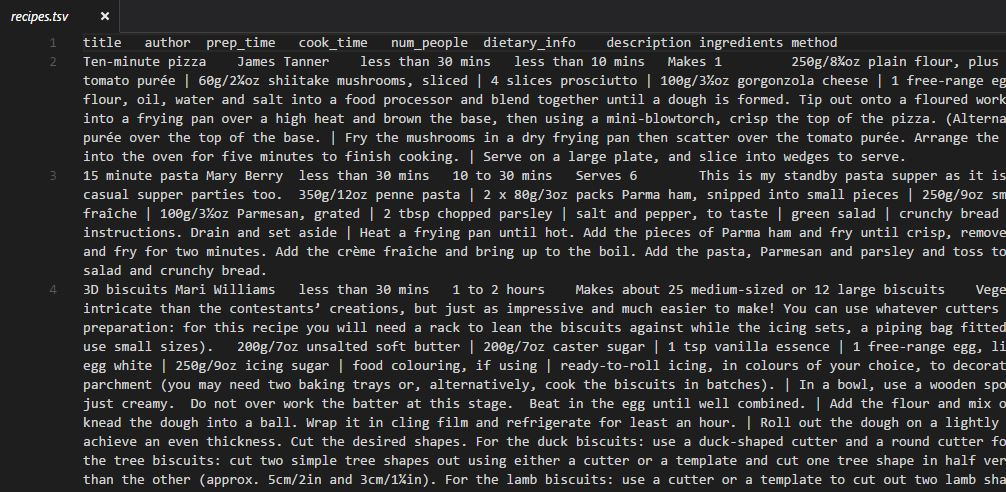
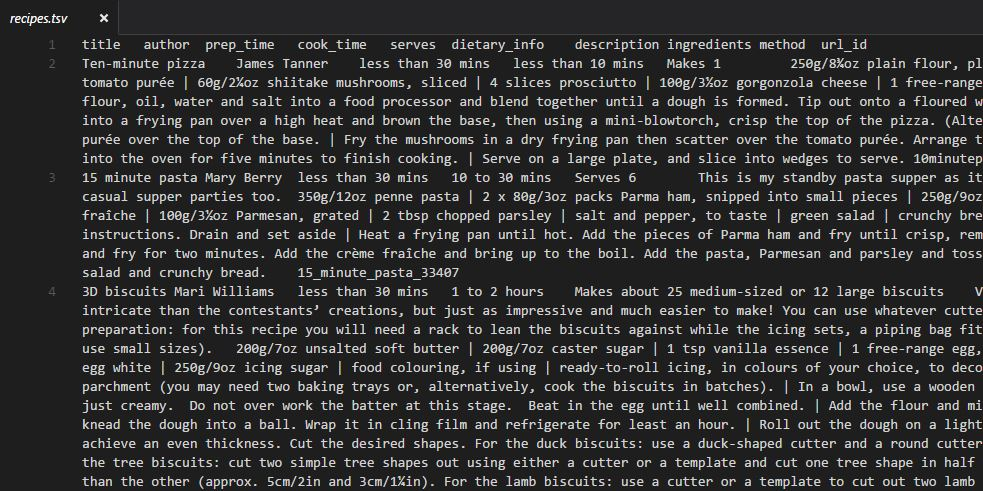
add example queries screenshots in problem 4 report

diff --git a/hw01/report/tex/problem_4.tex b/hw01/report/tex/problem_4.tex
@@ -123,7 +123,11 @@ To process this type of queries, we parse the textual query, extracting the conj
 
 \medskip
 
-\noindent As a last addition, we developed a simple \textbf{\textit{web interface}} using \textit{Flask}\cite{flask} microframework. From the home page, you can type your query and get the list of most related recipes. Clicking on a recipe you are redirected to the related page on BBC site\cite{bbc}.
+\noindent As a last addition, we developed a simple \textbf{\textit{web interface}} for the search engine using the \textit{Flask}\cite{flask} microframework. From the home page, you can type a query and get a nicely formatted list of the corresponding most related recipes. Clicking on a particular recipe redirects you to the related page on the BBC site\cite{bbc}.
+\begin{center}
+	\vspace{5mm}
+	\includegraphics[scale = 0.5]{img/homepage.jpg}
+\end{center}
 
 
 \subsubsection{Instructions to run}
@@ -132,26 +136,42 @@ To run the command line interface, open a terminal and type
 \begin{lstlisting}
 	$ python process_queries.py
 \end{lstlisting}
-To run the webapp (in local), open a terminal and type
+Then, follow the format specified in the previous section to input a legal query. You can exit the program by simply pressing Enter without inserting text (or forcing process termination as well).
+
+\bigskip
+
+\noindent To run the webapp (locally), open a terminal and type
 \begin{lstlisting}
 	$ python webapp.py
 \end{lstlisting}
-Then, open a browser and go to \url{localhost:5000}  (note that you still need Internet connection to be redirected to BBC site\cite{bbc}).\\
-The system takes some seconds at the beginning to load the index in memory from storage. Then, follow the format specified in the previous section to input a legal query. You can exit the program by simply pressing Enter without inserting text (or forcing process termination as well).
+Then, open a browser and go to \url{localhost:5000}  (note that you still need a working Internet connection to view the recipes on the BBC site\cite{bbc}).
 
-
+\newpage
 \subsubsection{Examples}
 
+\begin{itemize}
+	\item "roast chicken and potatoes"
+	\begin{center}
+		\includegraphics[scale = 0.5]{img/query1.jpg}
+	\end{center}
+	
+	\item "roast chicken $||$ potatoes"
+	\begin{center}
+		\includegraphics[scale = 0.5]{img/query2.jpg}
+	\end{center}
 
+	\item "chocolate dessert 10 minutes -peanuts"
+	\begin{center}
+		\includegraphics[scale = 0.5]{img/query3.jpg}
+	\end{center}
 
+	\item "spaghetti *vegetarian"
+	\begin{center}
+		\includegraphics[scale = 0.5]{img/query4.jpg}
+	\end{center}
 
-
-
-
-
-
-
-
-
-
-
+	\item "parmigiana $||$ lasagne $||$ cannelloni *vegetarian -artichokes"
+	\begin{center}
+		\includegraphics[scale = 0.5]{img/query5.jpg}
+	\end{center}	
+\end{itemize}

diff --git a/hw01/report/tex/problem_1.tex b/hw01/report/tex/problem_1.tex
@@ -49,7 +49,7 @@ In addition, we have that $\Omega$ is an equiprobable space, since every permuta
 		\item $\binom{4}{i}$ ways to choose $i$ aces.
 		\item $\binom{48}{j-i}$ ways to chose the remaining $j-i$ cards.
 		\item $j!$ permutations for each of the first $j$ cards combination.
-		\item $52-j!$ permutations of the remaining cards.
+		\item $(52-j)!$ permutations of the remaining cards.
 	\end{itemize}
 	
 	Let $A \subset \Omega$ be the event related to drawing at least 1 ace in the first 3 cards. Therefore,

diff --git a/hw01/preprocess_recipes.py b/hw01/preprocess_recipes.py
@@ -12,7 +12,7 @@ if __name__ == "__main__":
 
     with open(DEST, 'wb') as out:
         tsv_writer = csv.writer(out, delimiter='\t', encoding='utf-8')
-        tsv_writer.writerow(HEADER)
+        tsv_writer.writerow(HEADER[:len(HEADER)-1])
 
         tsv = open(SRC, 'rb')
         tsv_reader = csv.reader(tsv, delimiter='\t', encoding='utf-8')

diff --git a/hw01/report/hw01.tex b/hw01/report/hw01.tex
@@ -46,8 +46,8 @@
 \input{tex/problem_4.tex}
 
 \newpage
-\addcontentsline{toc}{section}{References}
 \bibliographystyle{unsrt}
 \bibliography{bib/biblio}
+\addcontentsline{toc}{section}{References}
 
 \end{document}
